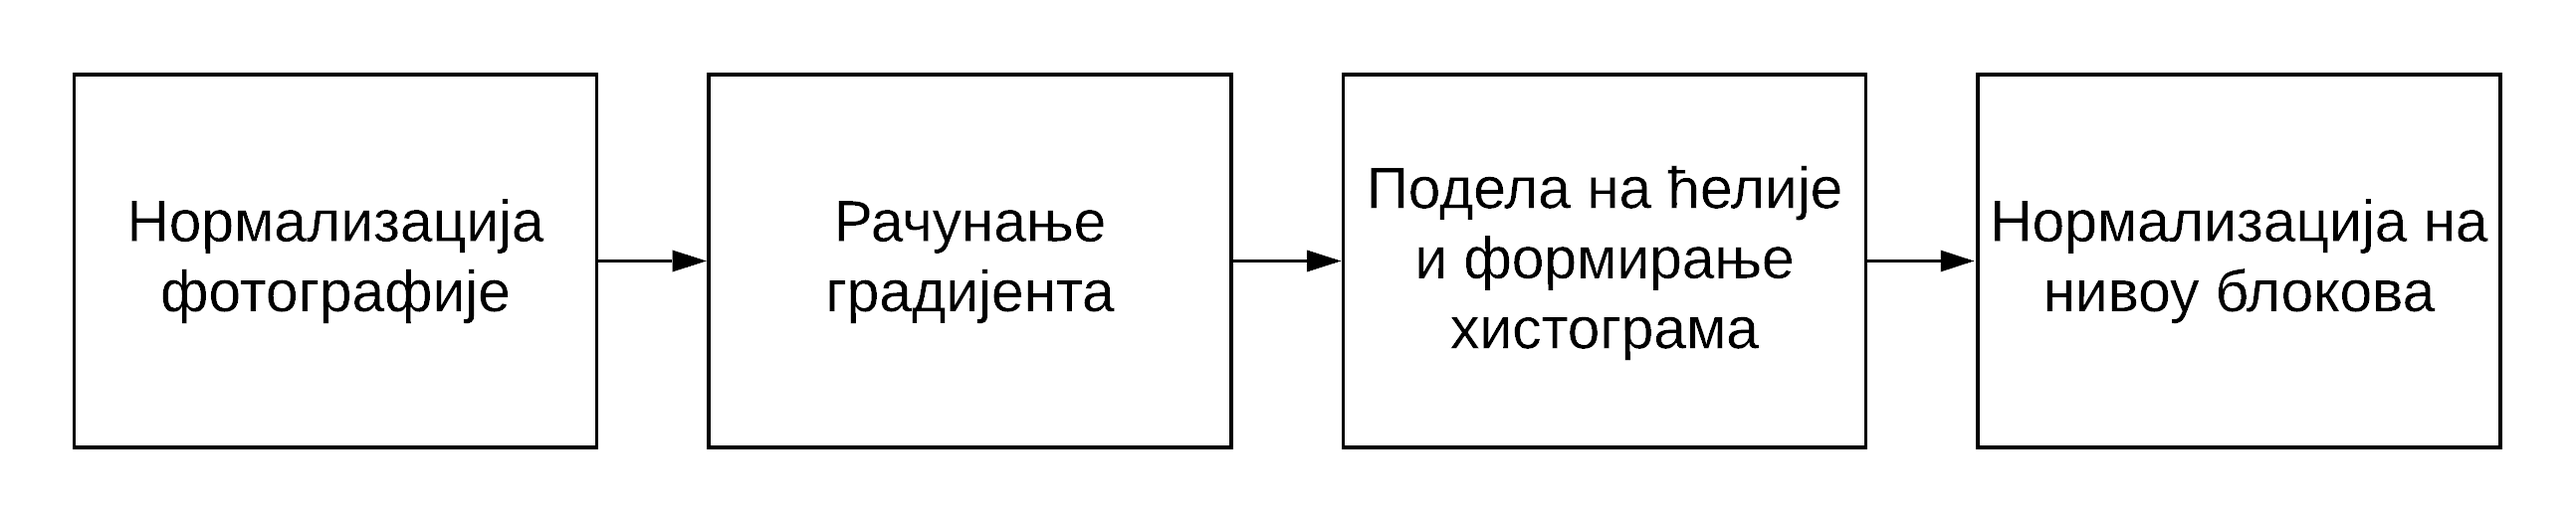
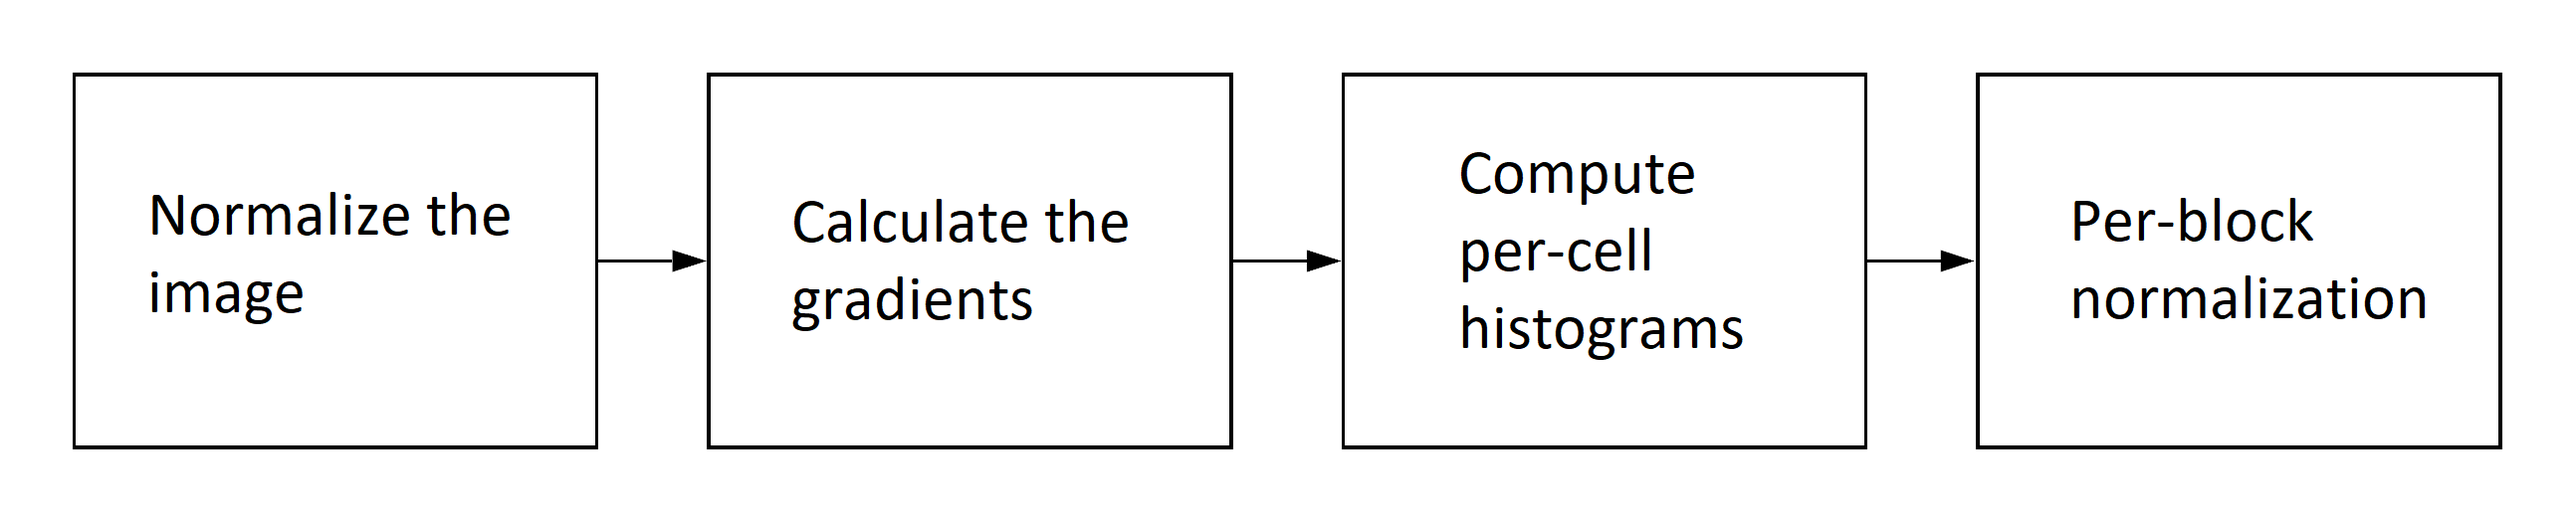
Add: HOG features - flowchart + readme

diff --git a/README.md b/README.md
@@ -1,10 +1,10 @@
-# Vehicle Detection HOG + SVM
+# Vehicle Detection HOG + SVM :car: :red_car: :taxi:
 
 This repository contains the implementation and a short overview of my Bachelor Thesis, 'Vehicle Detection Using Front Camera Image Classification'. The original thesis paper is written in Serbian, so this readme file will provide a recap of important points from the thesis. 
 
 ## Table of Content
 * [Pipeline](#pipeline)
-* [HOG features](#hog) 
+* [HOG features](#HOG-features) 
 * [SVM classifiers](#svm)
 * [Sliding window](#sliding_window)
 * [Results](#results)
@@ -25,3 +25,24 @@ On the other hand, the second data collection process had the goal of gathering 
 
 ## HOG features
 
+Histograms of Oriented Gradients are a well-established method for extracting features from images. A high-level overview is given by the flowchart below. 
+
+<p align="center">
+<img src="images/flowcharts/HOG.png" width="700"/>
+</p>
+
+For additional information on HOG features please refer to these resources:
+* https://gurus.pyimagesearch.com/lesson-sample-histogram-of-oriented-gradients-and-car-logo-recognition/
+* https://www.analyticsvidhya.com/blog/2019/09/feature-engineering-images-introduction-hog-feature-descriptor/
+* https://www.learnopencv.com/histogram-of-oriented-gradients/
+
+Here are some examples of images of cars and their corresponding HOG feature visualizations:
+
+HOG - cell size 10x10            |  Original image | HOG - cell size 15x15
+:-------------------------:|:-------------------------:|:-------------------------:
+<img src="images/cars/HOG/10x10/10_new.png" width="700"/> | <img src="images/cars/HOG/10.jpg" width="700"/> | <img src="images/cars/HOG/15x15/10_new.png" width="700"/>
+<img src="images/cars/HOG/10x10/1_new.png" width="700"/> | <img src="images/cars/HOG/1.jpg" width="700"/> | <img src="images/cars/HOG/15x15/1_new.png" width="700"/>
+<img src="images/cars/HOG/10x10/19_new.png" width="700"/> | <img src="images/cars/HOG/19.jpg" width="700"/> | <img src="images/cars/HOG/15x15/19_new.png" width="700"/>
+
+As one could notice from the images above, the smaller the size of a HOG cell, the more information the features can 'carry'. Of course, the con of smaller cells is a longer computation time, but my emphasis was on getting a good enough precision, while the computation time got a bit neglected. \
+The visualization of HOG features was implemented so that each gradient orientation is being mapped to a certain character in the image (/, -, \, |) and, depending on the gradient magnitute, we scale the corresponding character somewhere in the range from 0 to 255. 
